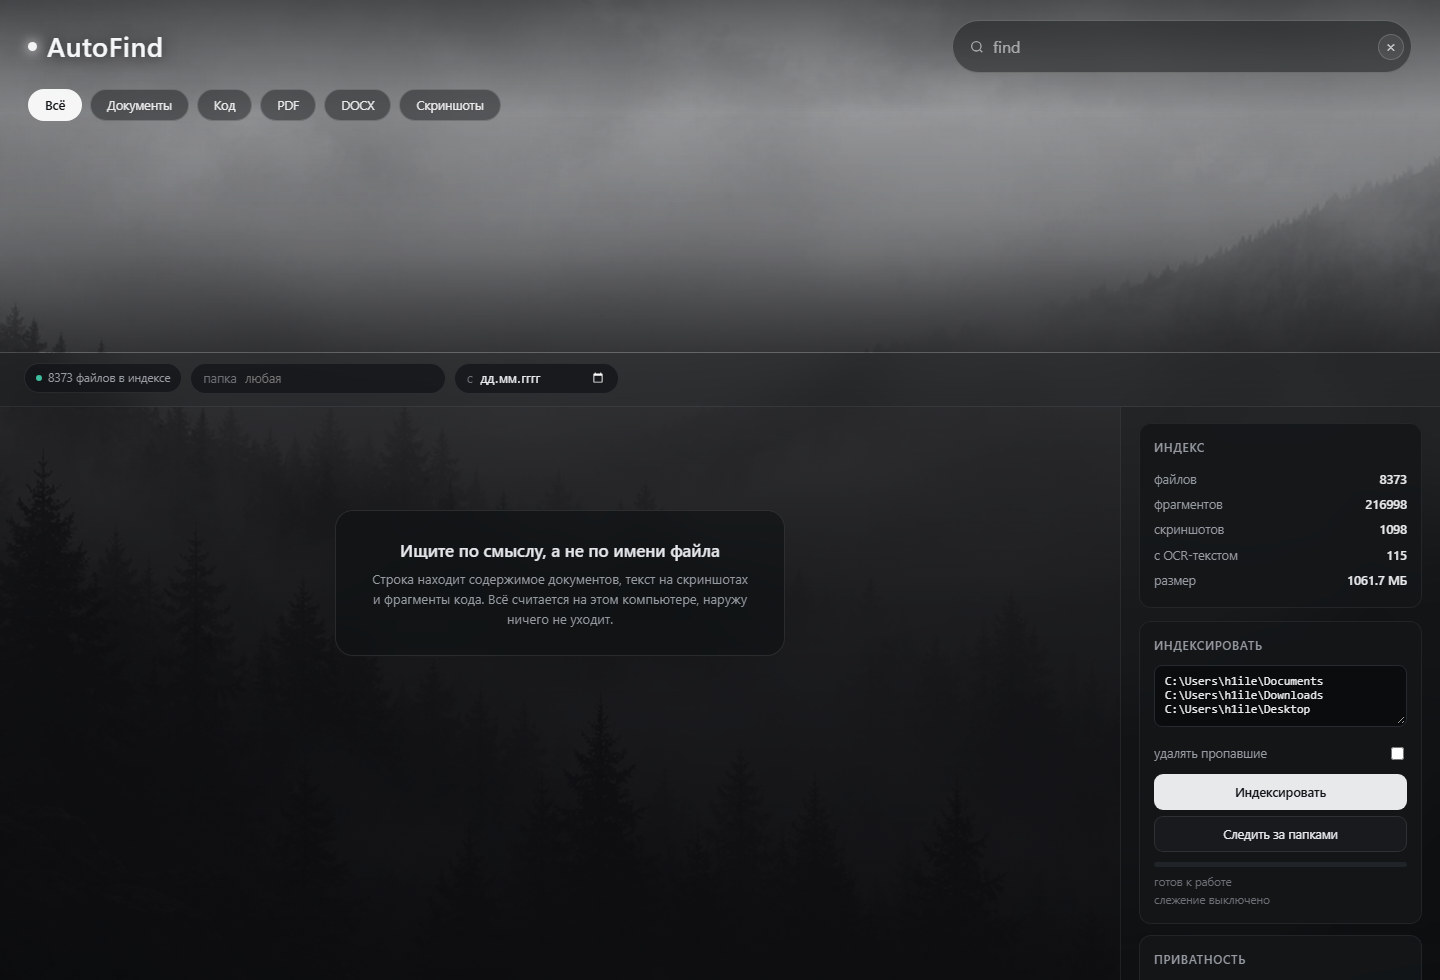
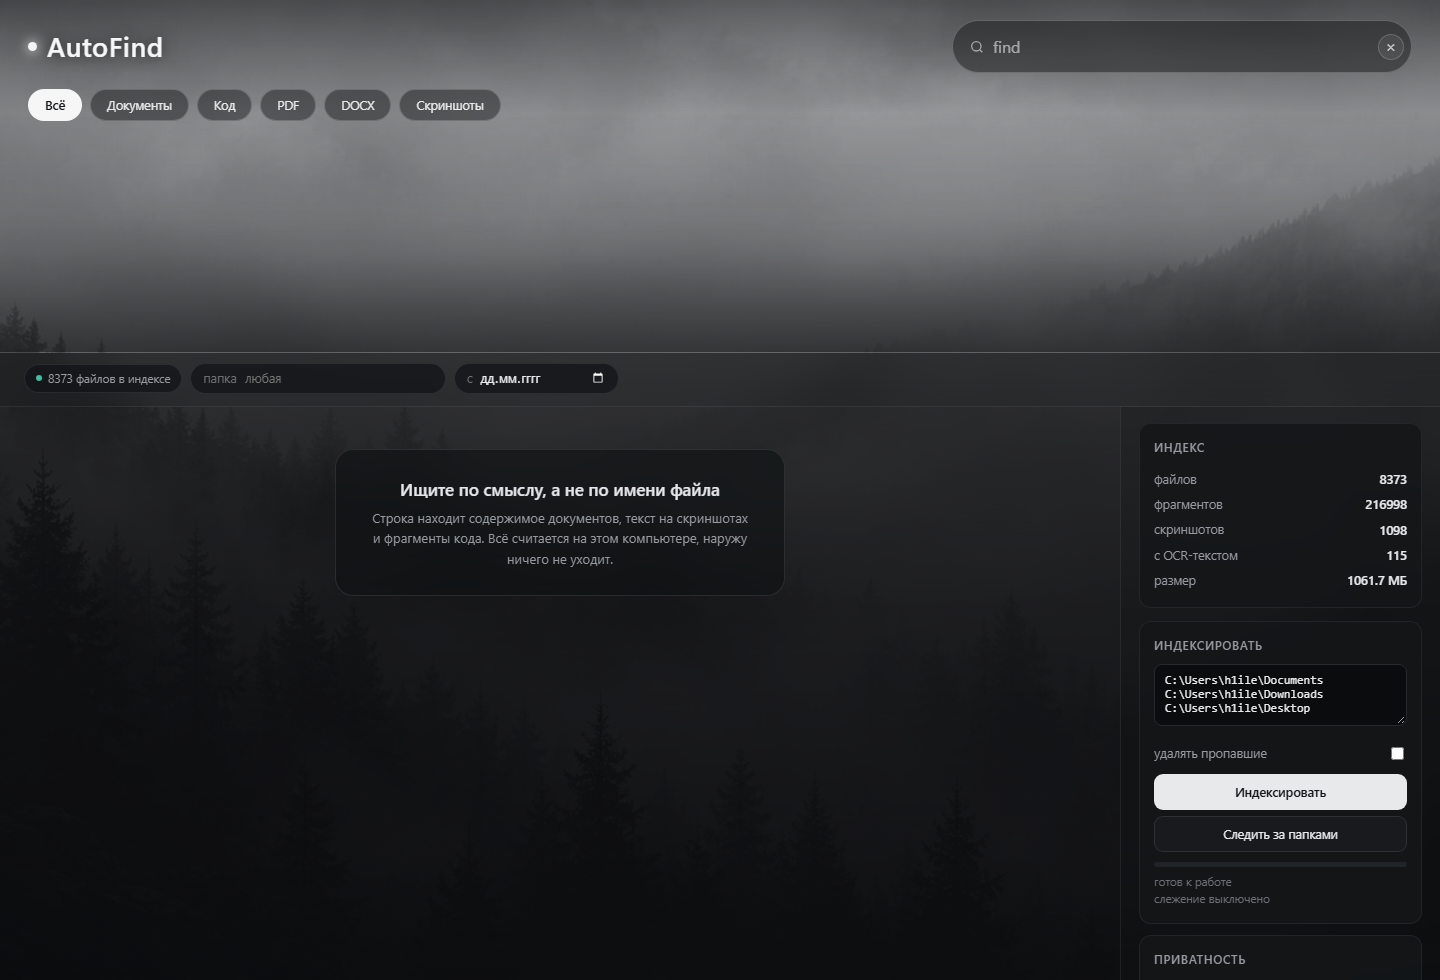
UI: lift the idle panel under the filter row
The idle plate was centred in the content area, which on a tall window left it floating in the middle of empty background. It is now top-aligned with 26px of air under the toolbar, where the eye lands after typing.

Changed region(s): [[0.25, 0.4898, 0.5312, 0.6429], [0.8125, 0.6735, 0.9062, 0.7347], [0.0312, 0.3673, 0.0938, 0.398]]

diff --git a/web/style.css b/web/style.css
@@ -586,9 +586,13 @@ aside {
 
 .empty {
   display: grid;
-  place-items: center;
+  /* Top-aligned, not centred: on a tall window a centred plate floats in the
+     middle of empty forest and reads as a modal. It belongs just under the
+     filter row, where the eye lands after typing. */
+  place-items: start center;
   height: 100%;
   min-height: 320px;
+  padding-top: 26px;
   text-align: center;
 }
 
